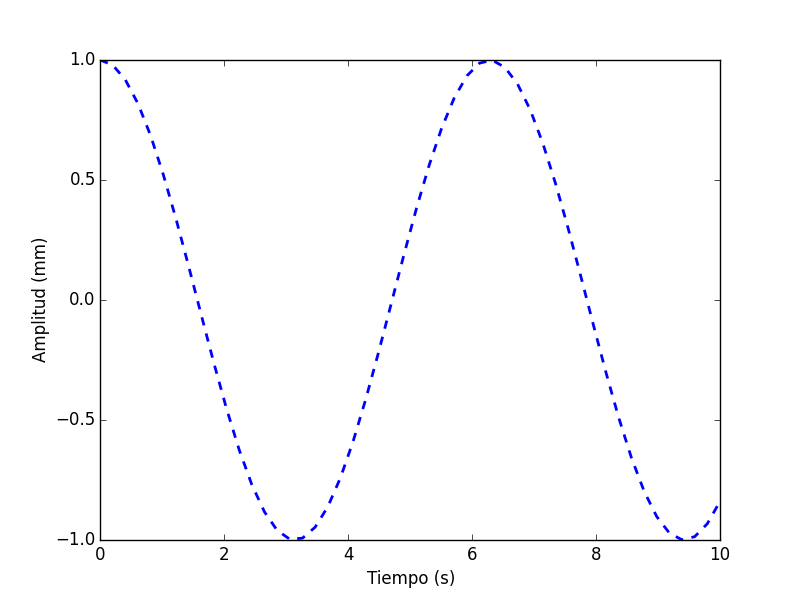
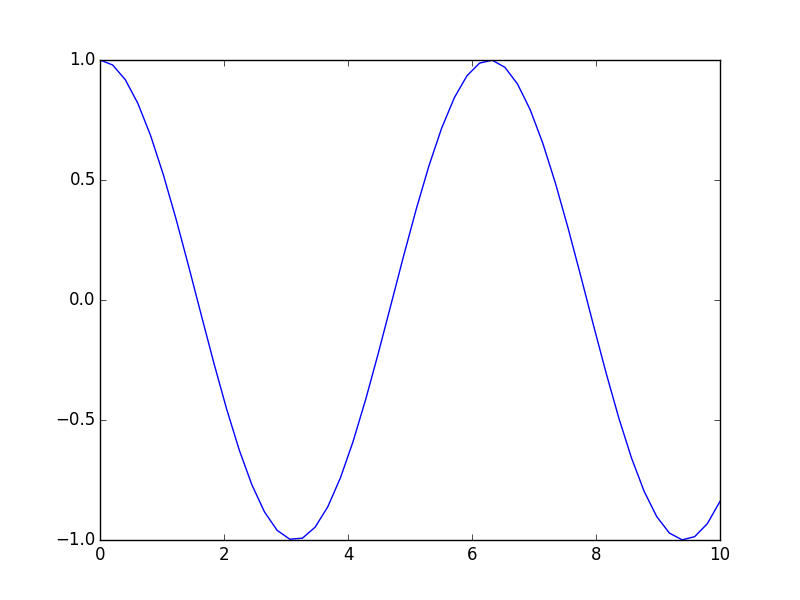
Actualizando Cap. 4

diff --git a/source/_chapters/src/ch4/code_mpl.py b/source/_chapters/src/ch4/code_mpl.py
@@ -17,16 +17,50 @@ def img_01():
 	fig = plt.figure()
 	ax = fig.add_subplot(111)
 
-	ax.plot(x,y,lw=2,ls="--")
-	ax.set_xlabel("Tiempo (s)")
-	ax.set_ylabel("Amplitud (mm)")
+	ax.plot(x, y)
 	
 	plt.savefig("img_01.png")
 	
+def img_02():
+	T = [50, 60, 70, 80, 90, 100, 110, 120]
+	P = [12, 20, 33, 54, 90, 148, 244, 403]
+
+	fig = plt.figure()
+	ax = fig.add_subplot(111)
+
+	ax.plot(T, P)
+	ax.set_xlabel(u"Temperatura (°C)")
+	ax.set_ylabel(u"Presión (KPa)")
+	ax.set_title(u"Relación P-T")
 	
-def img_02():pass
-def img_03():pass
-def img_04():pass
+	plt.savefig("img_02.png")
+
+
+def img_03():
+	x = np.linspace(0,10)
+	y = np.cos(x)
+
+	fig = plt.figure()
+	ax = fig.add_subplot(111)
+
+	ax.plot(x, y, linewidth=5, linestyle="--", color=(0,1,0))
+	ax.plot(x, y-1, lw=2, ls="dotted", color="#ff00ff")
+	ax.plot(x, y+1, "r.", lw=2)
+	
+	plt.savefig("img_03.png")
+	
+def img_04():
+	theta = np.linspace(0,2*np.pi,1000)
+	r = 0.25*np.cos(3*theta)
+
+	fig = plt.figure()
+	ax = fig.add_subplot(111, projection="polar")
+
+	ax.plot(theta, r)
+	
+	plt.savefig("img_04.png")
+	
+	
 def img_05():pass
 def img_06():pass
 def img_07():pass

diff --git a/source/conf.py b/source/conf.py
@@ -14,6 +14,7 @@
 
 import sys
 import os
+import sphinx_rtd_theme
 
 # If extensions (or modules to document with autodoc) are in another directory,
 # add these directories to sys.path here. If the directory is relative to the
@@ -102,12 +103,16 @@ pygments_style = 'sphinx'
 
 # The theme to use for HTML and HTML Help pages.  See the documentation for
 # a list of builtin themes.
-html_theme = 'default'
+html_theme = "sphinx_rtd_theme"
+
+html_theme_path = [sphinx_rtd_theme.get_html_theme_path()]
 
 # Theme options are theme-specific and customize the look and feel of a theme
 # further.  For a list of options available for each theme, see the
 # documentation.
-#html_theme_options = {}
+# html_theme_options = {
+# "codebgcolor":"#fafafa",
+# }
 
 # Add any paths that contain custom themes here, relative to this directory.
 #html_theme_path = []

diff --git a/source/_chapters/ch4.rst b/source/_chapters/ch4.rst
@@ -109,20 +109,136 @@ Enseguida definimos el array de la función o variable dependiente:
 	
 	y = (x**2)*(np.sin(x))
 
+Ahora creamos el objeto ``figure``:
+
+.. code:: python
+
+	fig = plt.figure()
+
+Utilizando el método ``add_subplot`` del objeto ``fig`` creamos el axes a utilizar:
+
+.. code:: python
+
+	ax = fig.add_subplot(111)
+
+Con nuestro axes creado, podemos utilizar el método ``plot`` para trazar la gráfica correspondiente:
+
+.. code:: python
+
+	ax.plot(x, y)
+
+Finalmente debemos utilizar la instrucción ``plt.show()`` para mostrar las gráficas que hemos generado. Juntando 
+todo el código anterior se tiene:
+
+.. code:: python
+
+	x = np.linspace(0,10)
+	y = np.cos(x)
+
+	fig = plt.figure()
+	ax = fig.add_subplot(111)
+
+	ax.plot(x, y)
 
 
-Etiquetas básicas
------------------
+.. _fig1:
+
+.. figure:: src/ch4/img_01.png
+	:scale: 80%
+
+	Gráfica coordenadas rectangulares
+
+
+Etiquetas básicas (xlabel, ylabel & title)
+------------------------------------------
+
+Naturalmente una gráfica sin información extra más que las líneas trazadas es inútil desde donde se vea, porque cuando 
+vamos a graficar algo el objetivo es transmitir información legible y en cierto punto amigable a terceros. Para ello 
+en una gráfica se debe incluir información acerca de los datos que estamos representando.
+
+En casi cualquier gráfica que veamos en libros, artículos o cualquier otro tipo de publicación vamos a tener al 
+menos etiquetados los ejes coordenados, y una título o pequeña descripción que muestre lo que se representa. 
+Para colocar esa información básica en una gráfica, Matplotlib proporciona los métodos ``set_xlabel``, ``set_ylabel`` y 
+``set_title`` de la clase ``Axes``, que de manera respectiva, colocan una etiqueta en el eje horizontal, una etiqueta en el 
+eje vertical y un título en la parte superior del ``Axes``.
+
+En el siguiente código se muestra cómo colocar las etiquetas mencionadas anteriormente:
+
+.. code:: python
+
+	T = [50, 60, 70, 80, 90, 100, 110, 120]
+	P = [12, 20, 33, 54, 90, 148, 244, 403]
+
+	fig = plt.figure()
+	ax = fig.add_subplot(111)
+
+	ax.plot(T, P)
+	ax.set_xlabel(u"Temperatura (°C)")
+	ax.set_ylabel(u"Presión (KPa)")
+	ax.set_title(u"Relación P-T")
+
+
+.. _fig2:
+
+.. figure:: src/ch4/img_02.png
+	:scale: 80%
+
+	Gráfica con etiquetas
+
+
+
+Estilos, colores y grosores de líneas
+-------------------------------------
+
+
 
 
 
 Coordenadas polares
 -------------------
 
+Para trazar gráficas en coordenadas polares en Matplotlib se utiliza también el método ``plot``, pero cuando se 
+crea el axes debemos cambiar el tipo de proyección que utilizaremos a coordenadas polares, lo cual puede hacerse 
+de las utilizando el *keyword argument* ``projection``:
+
+.. code:: python
+
+	fig = plt.figure()
+	polar_axes = fig.add_subplot(111, projection="polar")
+
+O bien utilizando ``polar``:
+
+.. code:: python
+
+	fig = plt.figure()
+	polar_axes = fig.add_subplot(111, polar=True)
+
+
+Por ejemplo, trazando la rosa polar :math:`r(\theta) = 0.25\,\cos(3\theta)`:
+
+.. code:: python
+
+	theta = np.linspace(0,2*np.pi,1000)
+	r = 0.25*np.cos(3*theta)
+
+	fig = plt.figure()
+	ax = fig.add_subplot(111, polar=True)
+
+	ax.plot(theta, r)
+
+
+.. _fig3:
+
+.. figure:: src/ch4/img_03.png
+	:scale: 80%
+
+	Gráfica rosa polar
 
 
 Scatter Plots
 -------------
+
+
 
 
 Gráficas de barras
@@ -132,6 +248,5 @@ Gráficas de barras
 
 Gráficas de pastel
 ------------------
-
 
 
